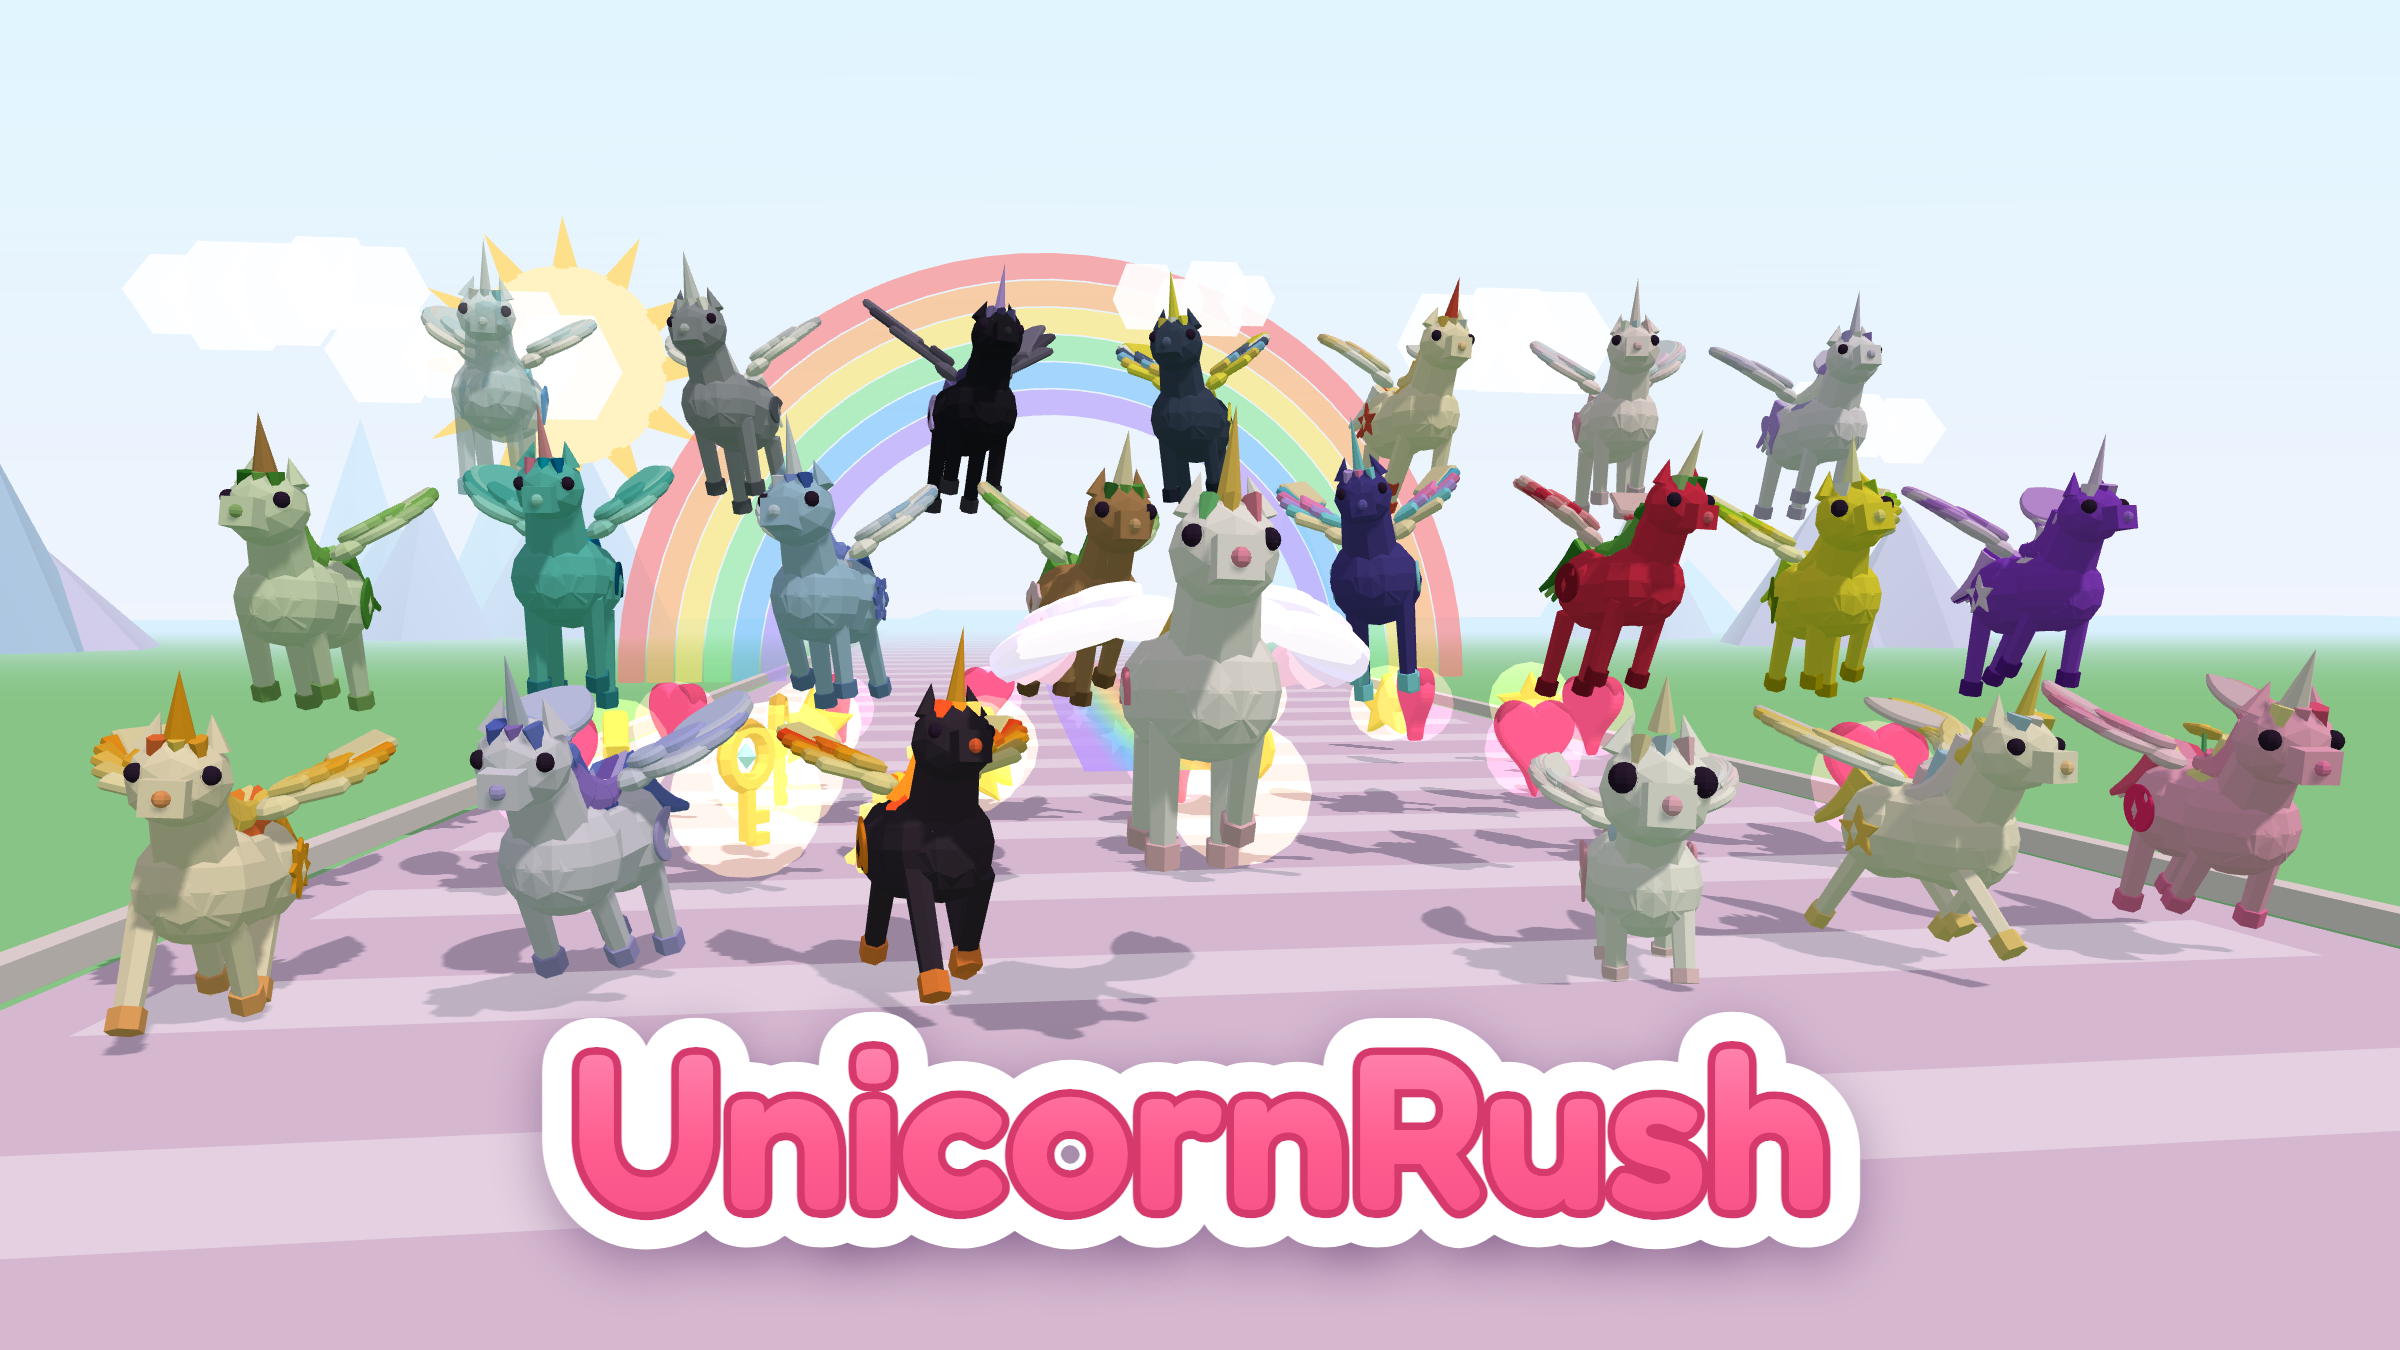
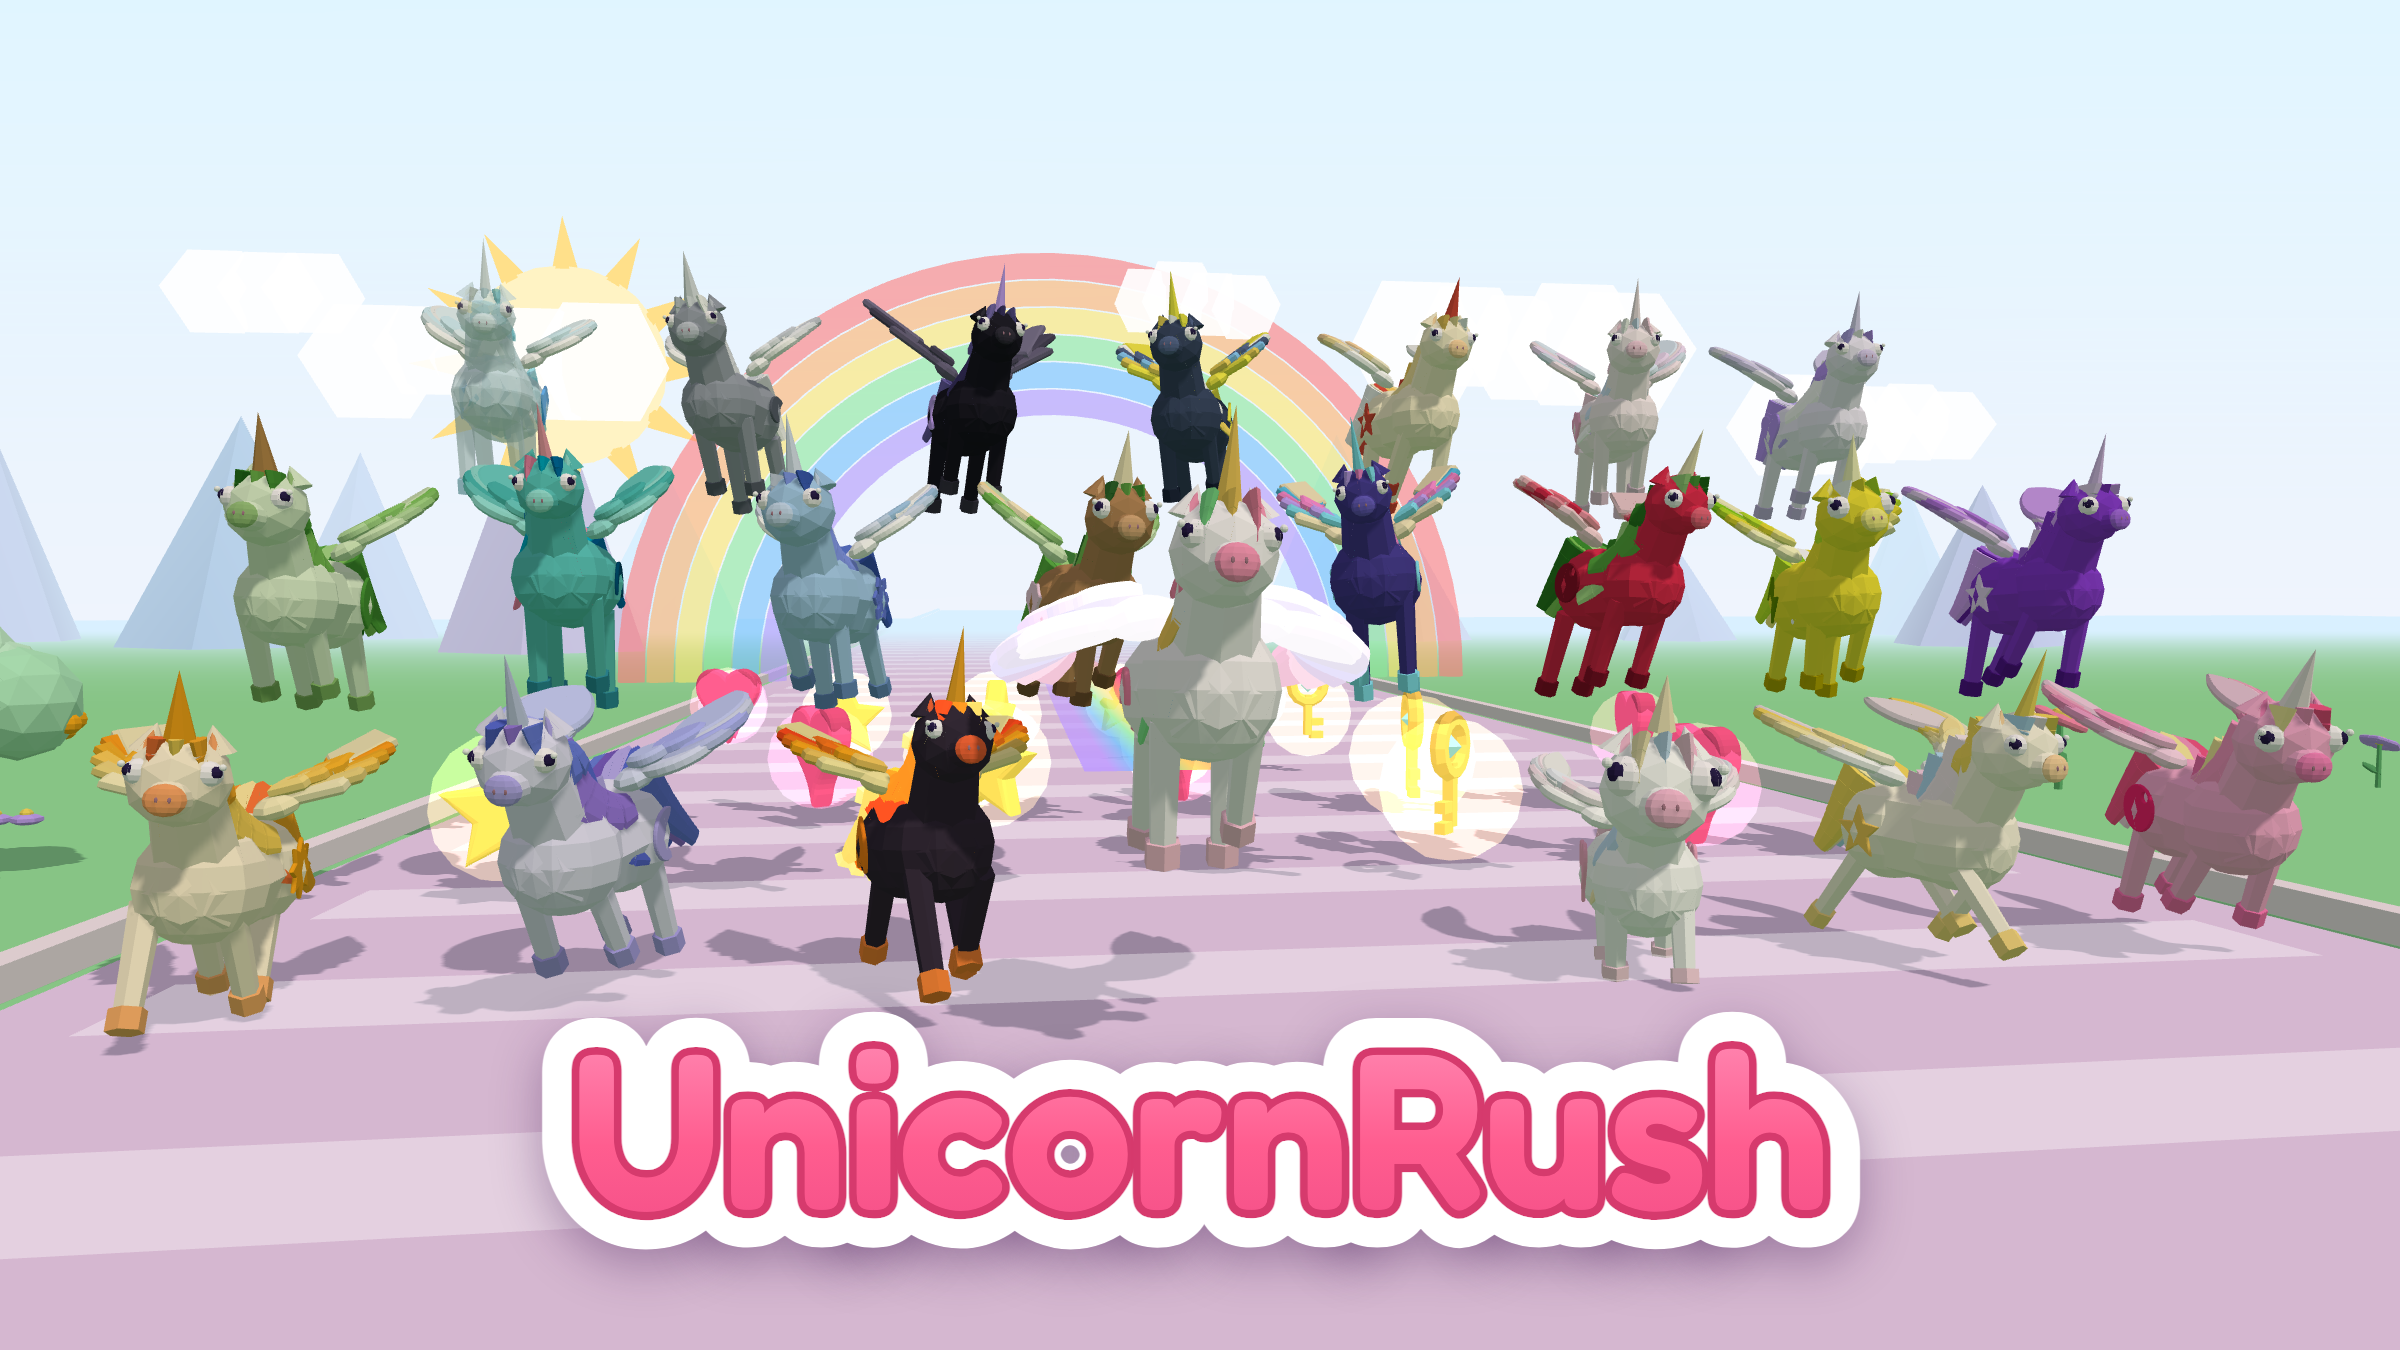
A cara do unicórnio fica mais fofa, perto das ilustrações do livro
O alvo é o desenho da Uni em `assets/story/`: cabeça redonda, olho grande e
crina em ondas.

O focinho era uma caixa com uma bolinha na ponta — a bolinha lia como nariz
de palhaço e a quina era o oposto de fofo. Virou uma esfera achatada com uma
mancha clara no fim e duas narinas mínimas. (Na primeira tentativa as
narinas eram três vezes isto e a cara virava focinho de porquinho.)

O olho era uma bolinha escura, que de perto lia como botão de casaco. Agora
são três peças: branco, íris e um pontinho de luz. Ficam empilhadas ao longo
da normal do crânio e não do eixo Z, porque o olho está na quina entre a
frente e a lateral — em Z a íris sairia torta de perfil, o que passou a
importar quando a ficha ganhou o 3D que gira.

As orelhas eram cones altos que, ao lado do chifre, viravam um segundo
chifre. Agora são baixas, largas e com o rosa por dentro.

A crina e o rabo eram retos; as mechas ganharam curva — cada nó dobra em
relação ao anterior. A curva é somada dentro do `animateLock`, e não deixada
na montagem: aquele laço roda a cada quadro e apagaria a dobra.

Errei duas vezes na espessura, nas duas direções: engrossar para dar volume
transformou as mechas em tábuas coloridas, e tirar o afinamento fez tábuas
de ponta quadrada. O que funciona é larga como lençol e fina de perfil,
afinando até um terço.

O modelo é um só, então vale para os 22 — conferi que o fogo do Brasa e o
preto do Sombra continuam certos. E refiz o que sai do modelo e fica
[…]

diff --git a/src/models/unicorn.js b/src/models/unicorn.js
@@ -18,15 +18,20 @@ const mat = (color, opts = {}) =>
 // e afina um pouquinho. Girando cada elo alguns graus, a mecha vira uma curva
 // contínua de cabelo — nada de bolinhas soltas.
 // ---------------------------------------------------------------------------
-function makeLock(color, { length = 0.9, width = 0.14, segments = 5, flatten = 0.45, fiery = false } = {}) {
+// `curva` é o quanto cada nó dobra em relação ao anterior: com 0 a mecha é
+// um espeto, e com 0,2 ela vira uma onda. É o que separa "fio de cabelo" de
+// "cabelo de desenho", que é o que as ilustrações do livro têm.
+function makeLock(color, { length = 0.9, width = 0.14, segments = 5, flatten = 0.45, fiery = false, curva = 0 } = {}) {
   const root = new THREE.Group();
   const joints = [];
   const segLength = length / segments;
   let parent = root;
 
   for (let i = 0; i < segments; i++) {
-    const top = width * (1 - (i / segments) * 0.8);
-    const bottom = width * (1 - ((i + 1) / segments) * 0.8);
+    // Afina até um terço: em bico vira espinho de cacto, e sem afinar
+    // nenhum vira tábua. O meio-termo é o que lê como mecha.
+    const top = width * (1 - (i / segments) * 0.66);
+    const bottom = width * (1 - ((i + 1) / segments) * 0.66);
 
     const joint = new THREE.Group();
     if (i > 0) joint.position.y = -segLength;
@@ -35,7 +40,7 @@ function makeLock(color, { length = 0.9, width = 0.14, segments = 5, flatten = 0
       ? mat(color, { emissive: color, emissiveIntensity: 0.9 })
       : mat(color);
     const mesh = new THREE.Mesh(
-      new THREE.CylinderGeometry(top, bottom, segLength * 1.06, 6),
+      new THREE.CylinderGeometry(top, bottom, segLength * 1.06, 8),
       material
     );
     mesh.position.y = -segLength / 2;
@@ -59,6 +64,7 @@ function makeLock(color, { length = 0.9, width = 0.14, segments = 5, flatten = 0
   }
 
   root.userData.joints = joints;
+  root.userData.curva = curva;
   root.userData.phase = 0;
   root.userData.fiery = fiery;
   return root;
@@ -77,14 +83,16 @@ function makeMane(colors, fiery = false) {
       // Mechas largas e achatadas: juntas elas formam um lençol de cabelo,
       // em vez de fios soltos parecendo macarrão.
       const lock = makeLock(colors[row % colors.length], {
-        length: 0.45 + Math.sin(u * Math.PI * 0.9) * 0.5,
-        width: 0.26,
-        segments: 4,
-        flatten: fiery ? 0.55 : 0.28,
+        length: 0.5 + Math.sin(u * Math.PI * 0.9) * 0.58,
+        width: 0.32,                     // larga como lençol…
+        segments: 5,
+        flatten: fiery ? 0.55 : 0.25,    // …e fina de perfil, senão vira tábua
+        // As de baixo dobram mais que as da nuca, que é como cabelo cai.
+        curva: fiery ? 0 : 0.1 + u * 0.16,
         fiery,
       });
       // Da nuca (u=0) até a cernelha, acompanhando a curva do pescoço.
-      lock.position.set(side * 0.05, 1.98 - u * 0.48, -0.72 + u * 0.6);
+      lock.position.set(side * 0.06, 1.99 - u * 0.5, -0.74 + u * 0.62);
       lock.rotation.z = side * 0.34;    // a mecha cai rente à lateral do pescoço
       lock.userData.phase = row * 0.5 + (side > 0 ? 0.28 : 0);
       mane.add(lock);
@@ -105,14 +113,16 @@ function makeTail(colors, fiery = false) {
   for (let i = 0; i < count; i++) {
     const offset = i - (count - 1) / 2;
     const lock = makeLock(colors[i % colors.length], {
-      length: 0.85 - Math.abs(offset) * 0.06,
-      width: 0.18,
-      segments: 4,
-      flatten: fiery ? 0.7 : 0.55,
+      length: 0.95 - Math.abs(offset) * 0.06,
+      width: 0.26,                       // pluma, não fita
+      segments: 5,
+      flatten: fiery ? 0.7 : 0.42,
+      // Dobra para fora: o rabo abre em leque em vez de cair reto.
+      curva: fiery ? 0 : 0.13,
       fiery,
     });
     // Bem juntinhas: de trás o rabo tem que parecer um tufo, não fitas soltas.
-    lock.position.set(offset * 0.06, 0, -Math.abs(offset) * 0.05);
+    lock.position.set(offset * 0.075, 0, -Math.abs(offset) * 0.05);
     lock.rotation.z = offset * 0.1;
     lock.userData.phase = i * 0.55;
     tail.add(lock);
@@ -478,28 +488,81 @@ export function createUnicorn(character = CHARACTERS.uni) {
   skull.castShadow = true;
   head.add(skull);
 
-  const muzzle = new THREE.Mesh(new THREE.BoxGeometry(0.27, 0.25, 0.34), bodyMat);
-  muzzle.position.set(0, -0.09, -0.3);
+  // Focinho arredondado. Era uma caixa, e de frente a cara terminava numa
+  // quina — o oposto de fofo. Uma esfera achatada encosta no crânio sem
+  // costura e mantém o vocabulário de poucas faces do resto do jogo.
+  const muzzle = new THREE.Mesh(new THREE.SphereGeometry(0.17, 10, 8), bodyMat);
+  // Curto e redondo: focinho comprido lê como cavalo adulto, e o alvo
+  // aqui é o pônei das ilustrações.
+  muzzle.scale.set(0.88, 0.78, 0.92);
+  muzzle.position.set(0, -0.1, -0.26);
   muzzle.castShadow = true;
   head.add(muzzle);
 
-  const nose = new THREE.Mesh(new THREE.SphereGeometry(0.06, 6, 6), mat(character.muzzle));
-  nose.position.set(0, -0.09, -0.47);
-  head.add(nose);
+  // O focinho é uma **mancha** rente à cara, e não a bolinha que ficava
+  // saliente na ponta — de perfil aquilo lia como nariz de palhaço. Nas
+  // ilustrações do livro é uma marca clara no fim do focinho, com duas
+  // narinas do tamanho de um alfinete.
+  const mancha = new THREE.Mesh(new THREE.SphereGeometry(0.132, 10, 8), mat(character.muzzle));
+  mancha.scale.set(1, 0.86, 0.46);
+  mancha.position.set(0, -0.105, -0.375);
+  head.add(mancha);
+
+  // Narinas mínimas. Na primeira tentativa eram três vezes isto e a cara
+  // virava focinho de porquinho: o que faz ler "cavalinho" é a mancha, e a
+  // narina só precisa existir.
+  for (const side of [-1, 1]) {
+    const narina = new THREE.Mesh(new THREE.SphereGeometry(0.014, 6, 5), mat(0xb07f92));
+    narina.scale.set(1, 1.5, 0.6);
+    narina.position.set(side * 0.038, -0.1, -0.428);
+    head.add(narina);
+  }
 
   const ears = [];
   for (const side of [-1, 1]) {
-    const eye = new THREE.Mesh(new THREE.SphereGeometry(0.07 * shape.eye, 8, 8), mat(0x30203a));
-    eye.position.set(side * 0.22, 0.06, -0.2);
-    head.add(eye);
+    // O olho, em três peças: branco, íris e um brilhinho.
+    //
+    // Antes era uma bolinha escura só, que de perto lia como botão de casaco.
+    // O que faz o olho parecer vivo — e o bicho, fofo — é o branco em volta e
+    // o pontinho de luz; é o que as ilustrações do livro fazem.
+    //
+    // As três peças ficam empilhadas ao longo da **normal do crânio** (a
+    // direção que sai do centro da cabeça passando pelo olho), e não ao longo
+    // do Z: o olho fica na quina entre a frente e a lateral, então empilhar em
+    // Z deixaria a íris torta quando o bicho é visto de lado — e agora ele
+    // gira 360° na ficha.
+    const raio = 0.092 * shape.eye;
+    const fora = new THREE.Vector3(side * 0.23, 0.075, -0.2).normalize();
+    const olho = (r, cor, altura) => {
+      const m = new THREE.Mesh(new THREE.SphereGeometry(r, 9, 7), mat(cor));
+      m.position.copy(fora).multiplyScalar(0.285 + altura);
+      head.add(m);
+      return m;
+    };
+    olho(raio, 0xfffaff, 0);                       // o branco
+    olho(raio * 0.56, 0x2f2350, raio * 0.55);      // a íris, deixando o branco à mostra
+    const brilho = olho(raio * 0.26, 0xffffff, raio * 0.86);
+    // O brilho não fica no meio: sai um pouco para cima e para o lado de
+    // fora, que é onde a luz bate.
+    brilho.position.x += side * raio * 0.34;
+    brilho.position.y += raio * 0.38;
 
-    const ear = new THREE.Mesh(new THREE.ConeGeometry(0.1, 0.28, 6), bodyMat);
-    ear.position.set(side * 0.18, 0.34, 0.02);
-    ear.rotation.z = side * 0.25;
+    // Orelha baixinha e larga, com o rosa por dentro. Era um cone alto e
+    // fino que, ao lado do chifre, virava um segundo chifre — três pontas
+    // saindo da mesma cabeça. Na ilustração do livro são duas folhinhas
+    // arredondadas, e é isso que faz a cabeça ler como bichinho.
+    const ear = new THREE.Mesh(new THREE.ConeGeometry(0.125, 0.21, 9), bodyMat);
+    ear.position.set(side * 0.185, 0.3, 0.03);
+    ear.rotation.z = side * 0.3;
+    ear.rotation.x = -0.12;
     ear.userData.side = side;
     ear.castShadow = true;
     head.add(ear);
     ears.push(ear);
+
+    const dentro = new THREE.Mesh(new THREE.ConeGeometry(0.072, 0.15, 8), mat(character.muzzle));
+    dentro.position.set(0, -0.018, -0.045);
+    ear.add(dentro);
   }
 
   // Chifre (cada personagem tem o seu: mais curto e grosso, mais fino e longo…)
@@ -519,7 +582,10 @@ export function createUnicorn(character = CHARACTERS.uni) {
   const forelockLocks = [];
   for (let i = 0; i < 3; i++) {
     const lock = makeLock(character.hair[i % character.hair.length], {
-      length: 0.34, width: 0.13, segments: 2, fiery: character.fiery,
+      // A franja é curta de propósito: comprida, ela desce pela bochecha e
+      // tapa o olho — que é justamente o que faz a cara.
+      length: 0.3, width: 0.16, segments: 3, flatten: 0.3,
+      curva: character.fiery ? 0 : 0.14, fiery: character.fiery,
     });
     lock.position.set((i - 1) * 0.12, 0, 0);
     lock.rotation.z = (i - 1) * 0.2;
@@ -610,10 +676,12 @@ export function createUnicorn(character = CHARACTERS.uni) {
 // Faz uma mecha ondular. `sweep` é o quanto ela é jogada para trás
 // (negativo joga para trás, positivo para a frente).
 function animateLock(lock, time, { sweep, wave, sway, speed }) {
-  const { joints, phase, fiery } = lock.userData;
+  const { joints, phase, fiery, curva = 0 } = lock.userData;
   joints.forEach((joint, i) => {
     const t = (i + 1) / joints.length;
-    joint.rotation.x = sweep + Math.sin(time * speed - i * 0.8 + phase) * wave * (0.35 + t);
+    // A curva é somada, não atribuída: este laço roda a cada quadro e
+    // apagaria qualquer dobra deixada na montagem.
+    joint.rotation.x = curva + sweep + Math.sin(time * speed - i * 0.8 + phase) * wave * (0.35 + t);
     joint.rotation.z = Math.sin(time * speed * 0.6 + i * 0.5 + phase) * sway * (0.3 + t);
 
     // Labareda: além de ondular, a chama treme e estica.

diff --git a/sw.js b/sw.js
@@ -5,7 +5,7 @@
 //
 // O nome do cache carrega a versão do jogo: ao subi-la (com `npm run bump`),
 // o cache velho é apagado sozinho no aparelho de quem já jogou.
-const VERSION = 'unicornrush-v0.23.2';
+const VERSION = 'unicornrush-v0.24.0';
 
 const SHELL = [
   './',

diff --git a/src/game/version.js b/src/game/version.js
@@ -7,4 +7,4 @@
 // Para subir a versão use `npm run bump` — ele mexe nos três lugares de uma
 // vez (aqui, no `package.json` e no `sw.js`), que é o que impede de um deles
 // ficar para trás.
-export const VERSION = '0.23.2';
+export const VERSION = '0.24.0';

diff --git a/README.md b/README.md
@@ -387,6 +387,46 @@ branco filtrado com corpo médio, que se ouve em qualquer aparelho, e o
 **rugido** grave que vem depois e vai fechando o filtro enquanto some, como
 um som que se afasta (`ruido()` em `src/game/audio.js`).
 
+## A cara do unicórnio
+
+O modelo foi aproximado das **ilustrações do livro** (ver `assets/story/`),
+que são o desenho oficial da Uni. O que mudou, e por quê:
+
+**O focinho era uma caixa com uma bolinha na ponta.** A bolinha lia como
+nariz de palhaço e a quina da caixa era o oposto de fofo. Agora é uma esfera
+achatada — sem costura com o crânio — com uma **mancha** clara no fim, na
+cor `muzzle` do personagem, e duas narinas do tamanho de um alfinete. Na
+primeira tentativa as narinas eram três vezes isto e a cara virava focinho
+de porquinho: o que faz ler "cavalinho" é a mancha, e a narina só precisa
+existir.
+
+**O olho era uma bolinha escura**, que de perto lia como botão de casaco.
+Agora são três peças — branco, íris e um pontinho de luz —, que é o que a
+ilustração faz. As três ficam empilhadas ao longo da **normal do crânio**, e
+não do eixo Z: o olho fica na quina entre a frente e a lateral, e empilhar em
+Z deixaria a íris torta de perfil (o que passou a importar quando a ficha
+ganhou o 3D que gira).
+
+**As orelhas eram cones altos e finos** que, ao lado do chifre, viravam um
+segundo chifre — três pontas na mesma cabeça. Agora são baixas, largas e com
+o rosa por dentro.
+
+**A crina e o rabo eram retos.** As mechas ganharam uma `curva`: cada nó
+dobra um pouco em relação ao anterior, e o que era espeto virou onda. A
+curva é **somada** dentro do `animateLock`, não deixada na montagem — aquele
+laço roda a cada quadro e apagaria qualquer dobra.
+
+Nisso errei duas vezes seguidas, nas duas direções: primeiro engrossei as
+mechas para dar volume e elas viraram **tábuas coloridas**; depois tirei o
+afinamento e elas viraram tábuas de ponta quadrada. O que funciona é larga
+como lençol e **fina de perfil** (`flatten` 0,25), afinando até um terço da
+largura — em bico vira espinho de cacto, sem afinar nenhum vira tábua.
+
+O modelo é um só, então isto vale para os 22. E duas coisas saem do modelo e
+ficam gravadas — a animação do carregamento (`npm run gravar-uni`) e as
+imagens de anúncio (`npm run anuncio`): mexeu no unicórnio, refaz as duas,
+senão elas continuam mostrando a cara antiga.
+
 ## Modos de jogo
 
 | Modo | Como é |
